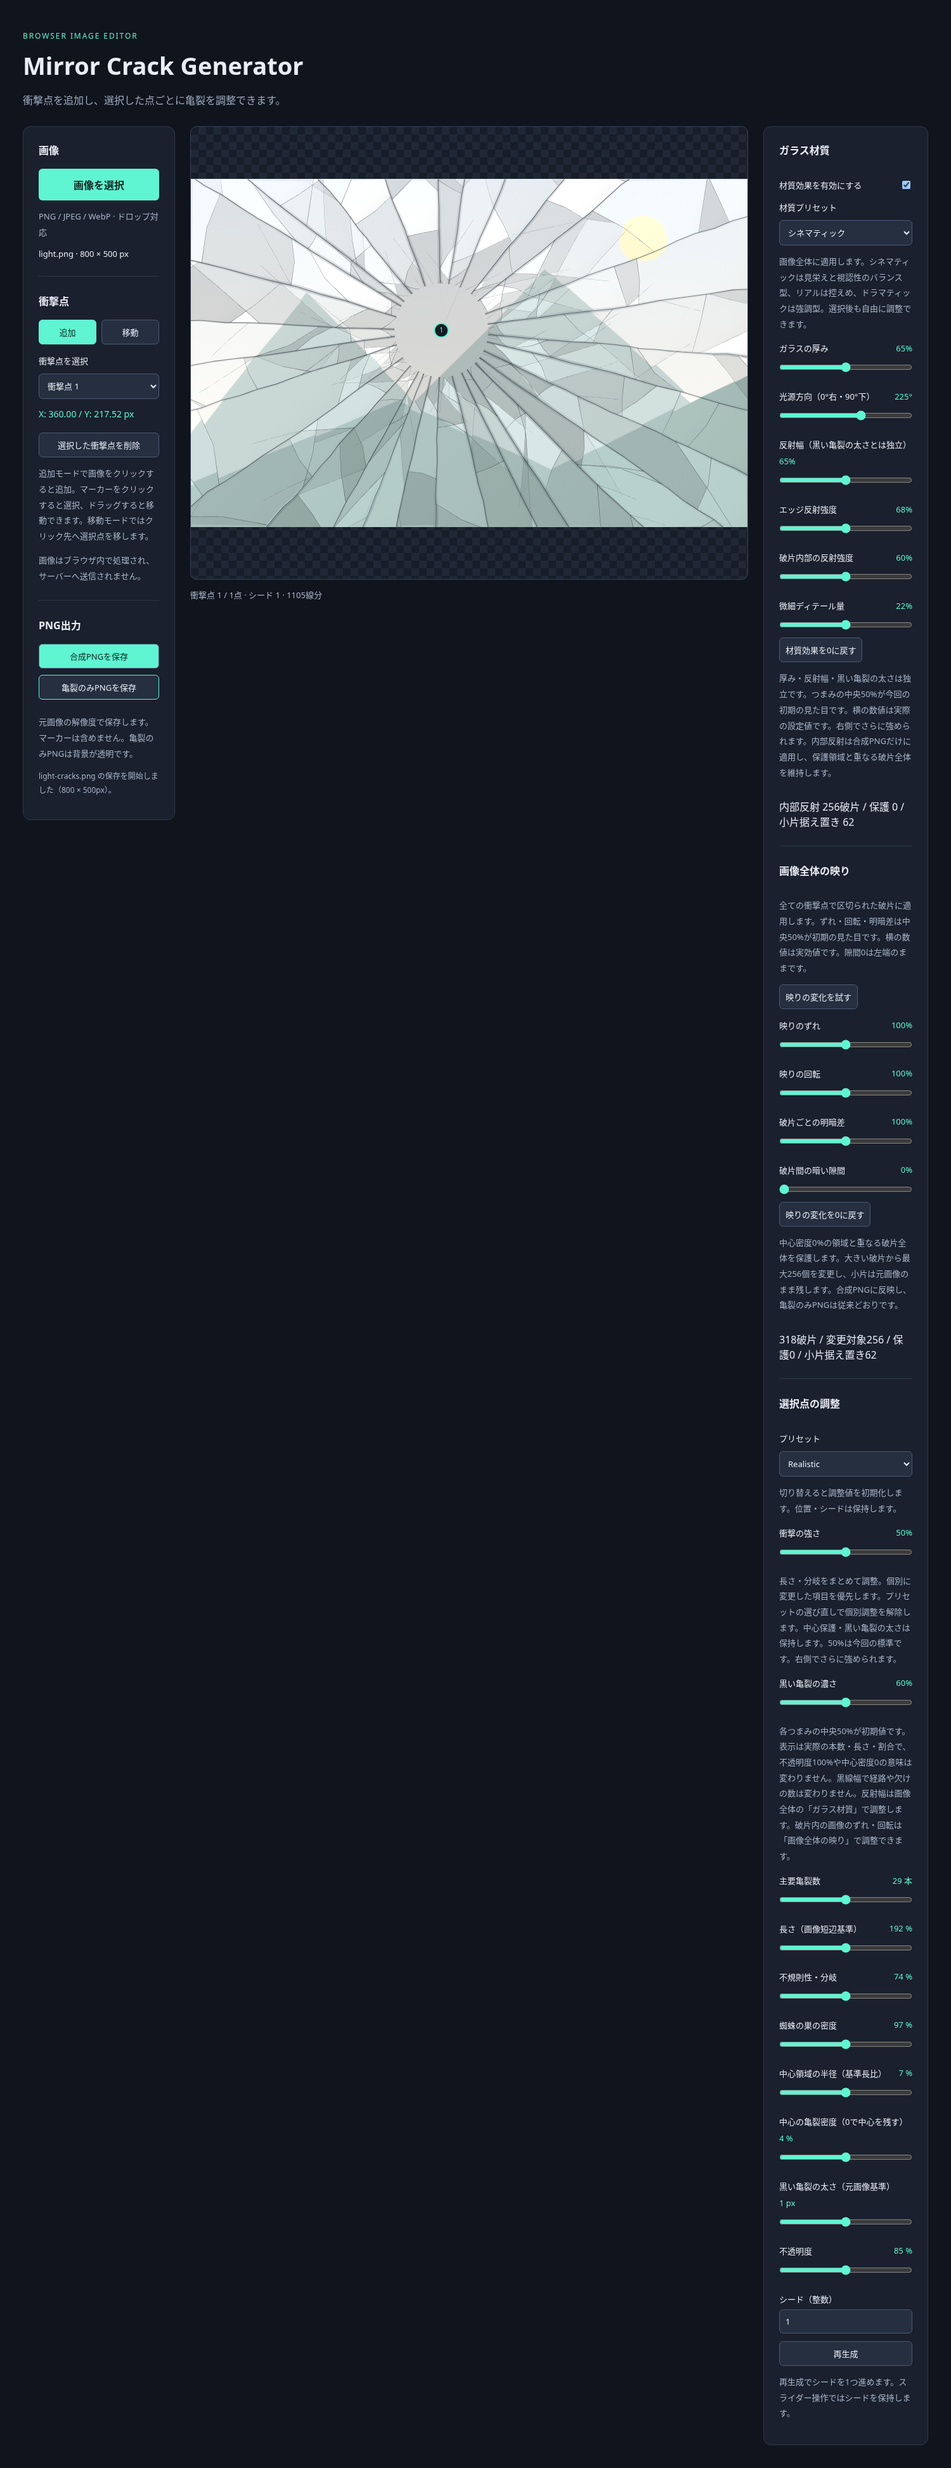
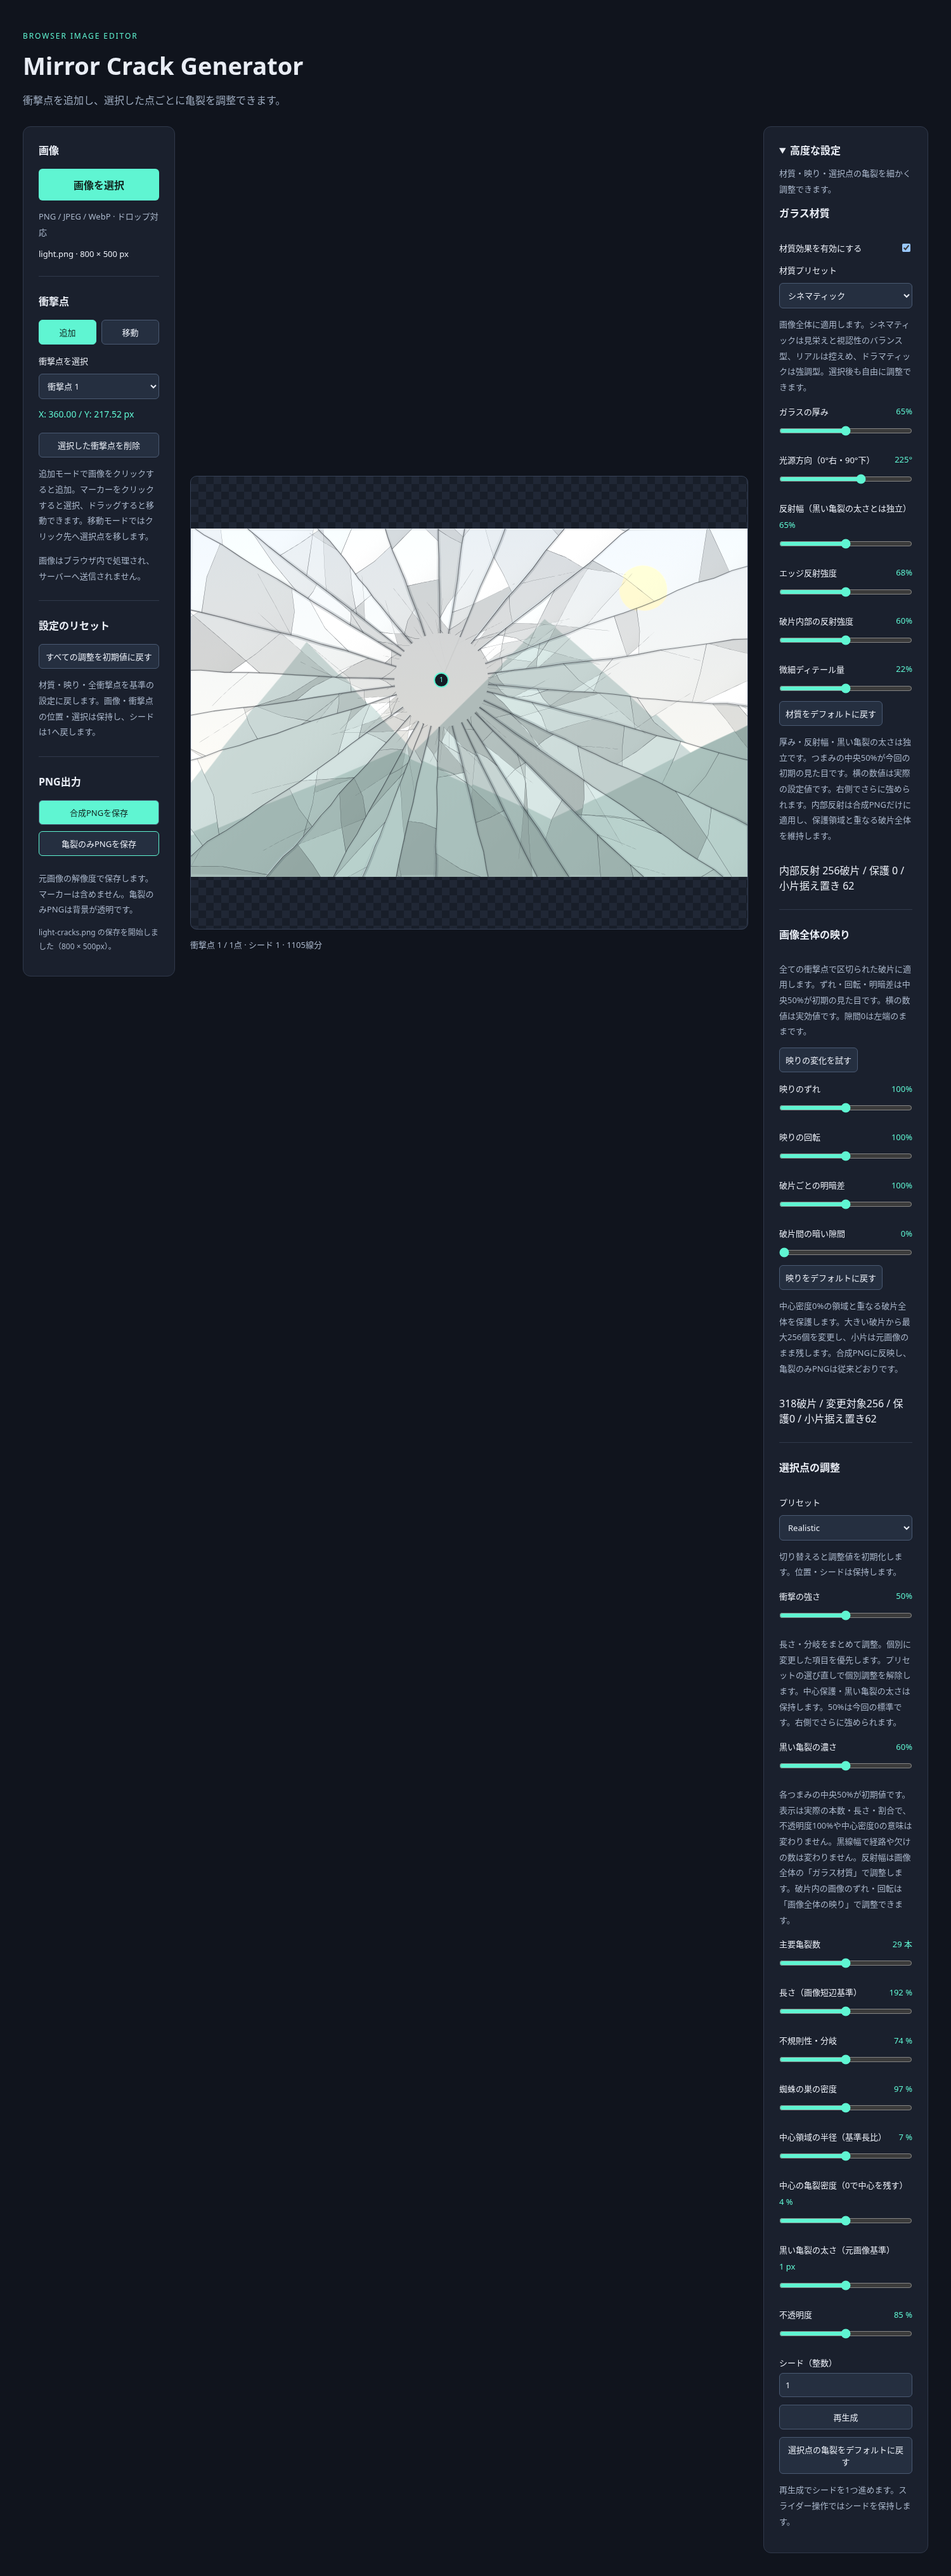
Restore defaults in reset controls and collapse advanced settings

Changed region(s): [[0.0307, 0.0, 0.9507, 0.9951], [0.2453, 0.0, 0.3067, 0.0311]]

diff --git a/src/ui/editor.ts b/src/ui/editor.ts
@@ -1,8 +1,7 @@
 import { MATERIAL_SCALES, SHARD_SCALES, POINT_SCALES, DARKNESS_SCALE, controlPosition, controlValue, type ControlScale } from '../state/controlScale';
-import { createApplicationEditor, resetApplicationSettings } from '../state/applicationDefaults';
+import { APPLICATION_SHARD_DEFAULTS, createApplicationEditor, resetApplicationSettings } from '../state/applicationDefaults';
 import { effectiveImpactStrength, displayImpactStrength } from '../core/effectRanges';
 import { GLASS_MATERIAL_PRESETS, isGlassMaterialActive, type GlassMaterialPreset } from '../core/glassMaterial';
-import { DEFAULT_SHARD_IMAGE_SETTINGS } from '../state/shardImageState';
 import type { SurfaceSettings } from '../state/fractureSettings';
 import { downloadPng, exportFileName, exportPng, type ExportMode } from '../image/exportPng';
 import { containRect, imageToScreen, screenToImage, type Point } from '../core/geometry';
@@ -72,20 +71,20 @@ export function mountEditor(root: HTMLElement): void {
       <div class="stage"><canvas aria-label="画像プレビュー。クリックで衝撃点を追加、マーカーをドラッグして移動"></canvas>
       <p class="placeholder">ここに画像をドロップ<br><span>または「画像を選択」から開く</span></p></div>
       <p class="status" role="status">画像を読み込むとプレビューが表示されます。</p>
-    </section><section class="panel settings"><h2>ガラス材質</h2>
+    </section><section class="panel settings"><details id="advanced-settings"><summary>高度な設定</summary><p class="hint">材質・映り・選択点の亀裂を細かく調整できます。</p><h2>ガラス材質</h2>
       <fieldset id="material-settings" disabled><legend class="sr-only">画像全体のガラス材質</legend>
       <label class="control"><span>材質効果を有効にする</span><input id="material-enabled" type="checkbox"></label>
       <label class="control">材質プリセット<select id="material-preset">${Object.entries(GLASS_MATERIAL_PRESETS).map(([id,p])=>`<option value="${id}">${p.label}</option>`).join('')}<option value="custom" disabled>カスタム</option></select></label>
       <p class="hint">画像全体に適用します。シネマティックは見栄えと視認性のバランス型、リアルは控えめ、ドラマティックは強調型。選択後も自由に調整できます。</p>
       ${materialSliders.map(s=>`<label class="control" for="material-${s.key}">${s.label}<output id="material-${s.key}-value"></output></label><input id="material-${s.key}" type="range" min="0" max="${s.max}" step="0.1">`).join('')}
-      <button type="button" id="material-reset">材質効果を0に戻す</button>
+      <button type="button" id="material-reset">材質をデフォルトに戻す</button>
       <p class="hint">厚み・反射幅・黒い亀裂の太さは独立です。つまみの中央50%が今回の初期の見た目です。横の数値は実際の設定値です。右側でさらに強められます。内部反射は合成PNGだけに適用し、保護領域と重なる破片全体を維持します。</p>
       </fieldset><p id="material-status" role="status"></p><hr><h2>画像全体の映り</h2>
       <fieldset id="shard-settings" disabled><legend class="sr-only">鏡の破片の画像変形</legend>
       <p class="hint">全ての衝撃点で区切られた破片に適用します。ずれ・回転・明暗差は中央50%が初期の見た目です。横の数値は実効値です。隙間0は左端のままです。</p>
       <button type="button" id="shard-demo">映りの変化を試す</button>
       ${shardSliders.map(s=>`<label class="control" for="shard-${s.key}">${s.label}<output id="shard-${s.key}-value">0%</output></label><input id="shard-${s.key}" type="range" min="0" max="100" step="1" value="0">`).join('')}
-      <button type="button" id="shard-reset">映りの変化を0に戻す</button>
+      <button type="button" id="shard-reset">映りをデフォルトに戻す</button>
       <p class="hint">中心密度0%の領域と重なる破片全体を保護します。大きい破片から最大256個を変更し、小片は元画像のまま残します。合成PNGに反映し、亀裂のみPNGは従来どおりです。</p>
       </fieldset><p id="shard-status" role="status"></p><hr><h2>選択点の調整</h2>
       <fieldset id="settings" disabled><legend class="sr-only">亀裂設定</legend>
@@ -101,9 +100,10 @@ export function mountEditor(root: HTMLElement): void {
       <label class="control" for="seed">シード（整数）</label>
       <input id="seed" type="number" step="1" min="-9007199254740991" max="9007199254740991" value="1">
       <button type="button" id="regenerate">再生成</button>
+      <button type="button" id="point-reset">選択点の亀裂をデフォルトに戻す</button>
       <p class="hint">再生成でシードを1つ進めます。スライダー操作ではシードを保持します。</p>
       </fieldset>
-
+      </details>
     </section></main>`;
   const get = <T extends HTMLElement>(selector: string): T => root.querySelector<T>(selector)!;
   const canvas = get<HTMLCanvasElement>('canvas');
@@ -281,6 +281,7 @@ export function mountEditor(root: HTMLElement): void {
     button.addEventListener('click', () => { mode = button.dataset.mode as Mode; refresh(); });
   }
   list.addEventListener('change', () => edit(() => state?.select(Number(list.value))));
+  get('#point-reset').addEventListener('click',()=>edit(()=>{if(state?.active)state.resetPoints(state.active.id);}));
   get('#reset-settings').addEventListener('click',()=>edit(()=>{if(state)resetApplicationSettings(state);}));
   get('#delete-impact').addEventListener('click', () => edit(() => {
     state?.remove();
@@ -324,9 +325,9 @@ export function mountEditor(root: HTMLElement): void {
   }
   get('#material-enabled').addEventListener('change',()=>edit(()=>state?.glass.update({enabled:get<HTMLInputElement>('#material-enabled').checked})));
   get('#material-preset').addEventListener('change',()=>edit(()=>state?.glass.applyPreset(get<HTMLSelectElement>('#material-preset').value as GlassMaterialPreset)));
-  get('#material-reset').addEventListener('click',()=>edit(()=>state?.glass.reset()));
+  get('#material-reset').addEventListener('click',()=>edit(()=>state?.glass.applyPreset('cinematic')));
   get('#shard-demo').addEventListener('click',()=>edit(()=>state?.shards.update({displacement:60,rotation:45,reflection:50,gap:25})));
-  get('#shard-reset').addEventListener('click',()=>edit(()=>state?.shards.update(DEFAULT_SHARD_IMAGE_SETTINGS)));
+  get('#shard-reset').addEventListener('click',()=>edit(()=>state?.shards.update(APPLICATION_SHARD_DEFAULTS)));
   function applySeed(): boolean {
     const value = seed.valueAsNumber;
     if (!Number.isSafeInteger(value)) {

diff --git a/src/state/editorState.ts b/src/state/editorState.ts
@@ -125,9 +125,10 @@ export class EditorState {
     this.items = this.items.map(item => item.id === current.id ? { ...current, params, pattern, surface, fracture, impactStrength: value } : item);
   }
   /** Restore appearance defaults without renumbering, moving or removing impacts. */
-  resetPoints(): void {
+  resetPoints(id?: number): void {
     // Prepare the entire replacement first so a generation failure cannot leave a partial reset.
     const restored = this.items.map(impact => {
+      if (id !== undefined && impact.id !== id) return impact;
       const params = { ...this.realisticPreset }, surface = { ...DEFAULT_SURFACE_SETTINGS };
       const pattern = generateCracks(this.size, impact.origin, 1, params);
       return { id: impact.id, origin: { ...impact.origin }, seed: 1, preset: 'realistic' as const,

diff --git a/src/style.css b/src/style.css
@@ -20,3 +20,7 @@ canvas{touch-action:none}.sr-only{position:absolute;width:1px;height:1px;padding
 #export-composite,#export-cracks{width:100%;margin-bottom:10px}#export-composite{background:#5ff5d2;color:#10251f}#export-status{font-size:12px;line-height:1.8;overflow-wrap:anywhere;color:#a8b5c9}
 
 #reset-settings{width:100%}
+
+#advanced-settings>summary{cursor:pointer;font-weight:700;font-size:16px}
+#advanced-settings>summary:focus-visible{outline:2px solid #5ff5d2;outline-offset:4px}
+#point-reset{width:100%;margin-top:12px}

diff --git a/docs/DEVELOPMENT.md b/docs/DEVELOPMENT.md
@@ -154,7 +154,7 @@ Vite の `base` は `/mirror-crack-generator/` に設定しています。
 
 第4段階の本番材質UI・シネマティック等のプリセットと共通プレビュー/PNG検証は
 [ガラス材質の製品接続](GLASS_MATERIAL_CONTROLS.md) を参照。通常画面の材質効果は既定で有効。
-従来の画素を確認するときは「材質効果を0に戻す」を使う。
+材質を無効にするときは有効化チェックを解除する。個別リセットはデフォルトへの復帰。
 
 第5段階の見た目を維持した陰影計算の最適化、前版との画素比較、高解像度PNGの測定は
 [材質の品質・負荷検証](GLASS_MATERIAL_QUALITY.md) を参照。
@@ -177,3 +177,5 @@ Vite の `base` は `/mirror-crack-generator/` に設定しています。
 材質・映り・全点の調整とシードを復帰する。`resetApplicationSettings` と `EditorState.resetPoints` を使い、
 待機中のスライダー入力は既存の編集キューで処理してから初期化する。
 Playwrightでの検証は `node tests/reset-settings-ui.cjs`（必要ならNODE_PATHを指定）。
+
+材質・映り・亀裂は初期状態で閉じた「高度な設定」内。個別リセットは各グループの起動時設定へ戻す。選択点リセットは他点を保持する。

diff --git a/ARCHITECTURE.md b/ARCHITECTURE.md
@@ -201,4 +201,7 @@ type Impact = { id: string; origin: Point; seed: number; preset: StylePreset; pa
 `EditorState.resetPoints` は全点の置換データを先に生成し、ID・現在座標・選択・次のIDを保持したまま
 初期基準とシード1へ戻す。`resetApplicationSettings` が材質シネマティックと映り初期値を合わせて復帰する。
 UIは既存の編集キューをフラッシュしてから初期化し、プレビューを再描画する。画像オブジェクトは置換しない。
-画像なし・読み込み中・保存中はリセットボタンを無効化する。効果0の既存操作は維持する。
+画像なし・読み込み中・保存中はリセットボタンを無効化する。通常UIの個別リセットも0ではなく初期値へ戻す。低レベルの効果0 APIは互換用に維持する。
+
+材質・映り・亀裂の詳細はネイティブの`details#advanced-settings`内に置き、初期状態で閉じる。
+`resetPoints(id)`は指定点のみ、引数なしは全点を復帰する。材質はシネマティック、映りはAPPLICATION_SHARD_DEFAULTSを使う。
